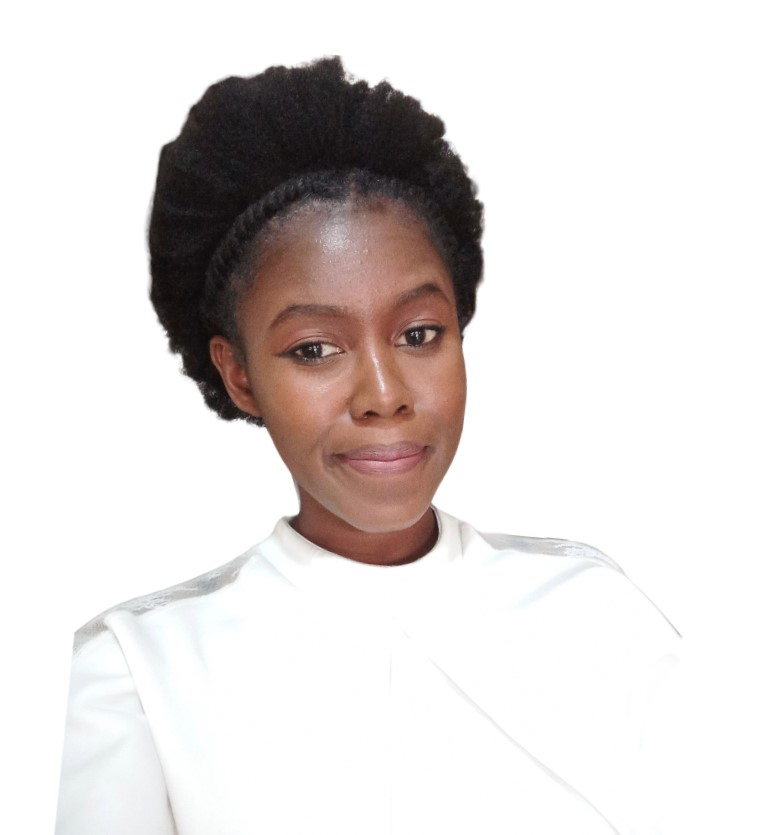
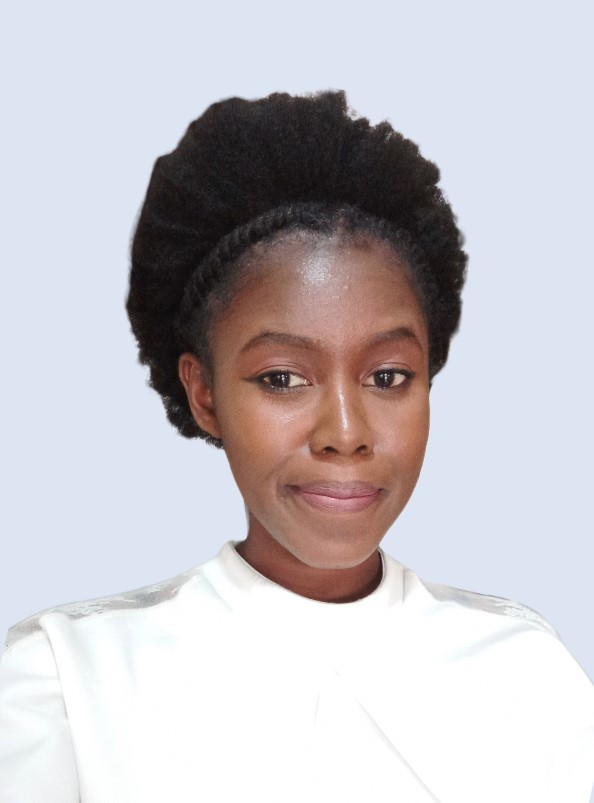
content in the about page

diff --git a/src/pages/About.jsx b/src/pages/About.jsx
@@ -2,15 +2,27 @@ import React from 'react'
 
 function About() {
   return (
-    <div className='flex flex-row text-lg'>
-      <div className='flex h-1/2 w-2/3 object-cover'>
-        <img src='/src/assets/images/kim.jpeg' className='object-cover bg-black'></img>
+    <div className='flex flex-col-reverse gap-y-10 text-lg mt-8 md:flex-row
+    md:space-x-10 bg-slate-500'>
+      <div className='flex md:h-1/2 md:w-2/3 '>
+        <img src='/src/assets/images/kim.jpeg' className='object-fit'></img>
       </div>
 
-      <div>
-        <p>Hi, I'm Kimberley Saka—a passionate Software Engineer from Malawi.
+      <div className='flex flex-col'>
+        <p>Hi, I&apos;m Kimberley Saka—a passionate Software Engineer from Malawi.
           I thrive on turning code into solutions, specializing in Python,
-          SQL, and crafting RESTful APIs with Flask and Django.</p>
+          SQL, and crafting RESTful APIs with Flask and Django.
+          With a Geographic Information Systems background, I bring a
+          unique blend of skills to the table.
+          </p>
+
+          <p>I&apos;ve recently completed
+            a coding bootcamp at ALX Africa, solidifying my foundation
+            and enhancing my problem-solving skills. My journey reflects
+            not just expertise but an unwavering passion 
+            for creating meaningful software solutions. I&apos;m also diving
+            into the world of Java, adding another layer to my programming prowess
+            </p>
 
       </div>
     </div>

diff --git a/src/components/Navigation/NavBar.jsx b/src/components/Navigation/NavBar.jsx
@@ -1,15 +1,14 @@
 import { Link } from "react-router-dom"
 export default function NavBar() {
   return(
-    <div className="flex flex-row justify-between items-center h-20 md:px-28
-     text-teal-600 text-lg">
-        <div className="flex rounded-full text-3xl font-bold hover:transform 
-        hover:scale-110 transition-transform">
-          <Link to="/" className="flex mt-6 rounded-full bg-white">
-            <img src="/src/assets/images/kim.jpeg" alt="Kimberley" 
-            className="h-16 w-16 object-contain rounded-full"/>
-          </Link>
-        </div>
+    <div className="flex flex-row justify-between items-center mt-5 text-teal-600 
+    h-20 md:px-28">
+        <Link to="/" className="flex justify-center items-center rounded-full border-2 border-teal-600
+          bg-blueish-gray hover:transform hover:scale-110 transition-transform">
+          <img src="/src/assets/images/kim.jpeg" alt="Kimberley" 
+          className="h-16 w-16 object-contain rounded-full"/>
+        </Link>
+      
 
         <div className="hidden md:flex space-x-12 items-center  text-lg" >
           <Link to="/projects" className="

diff --git a/tailwind.config.js b/tailwind.config.js
@@ -19,7 +19,8 @@ export default {
 
       colors: {
         'blue-gray-800': '#1E293B',
-        'blue-gray-50': '#E4E7EB',
+        'blueish-gray': '#DEE5F2',
+
       },
     },
   },
